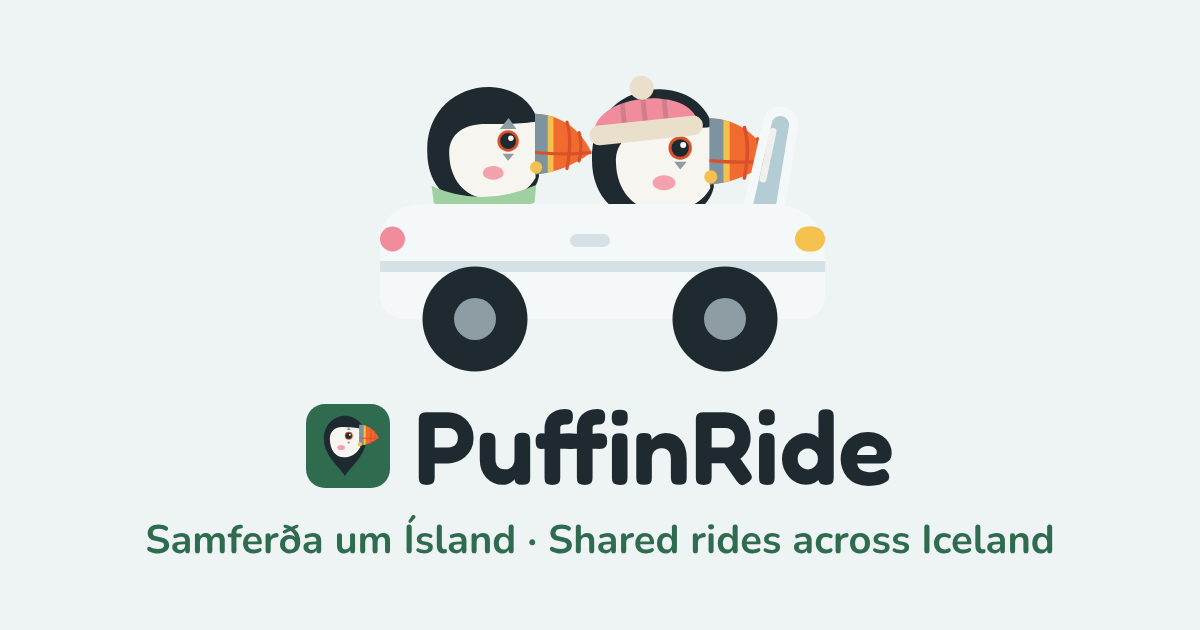
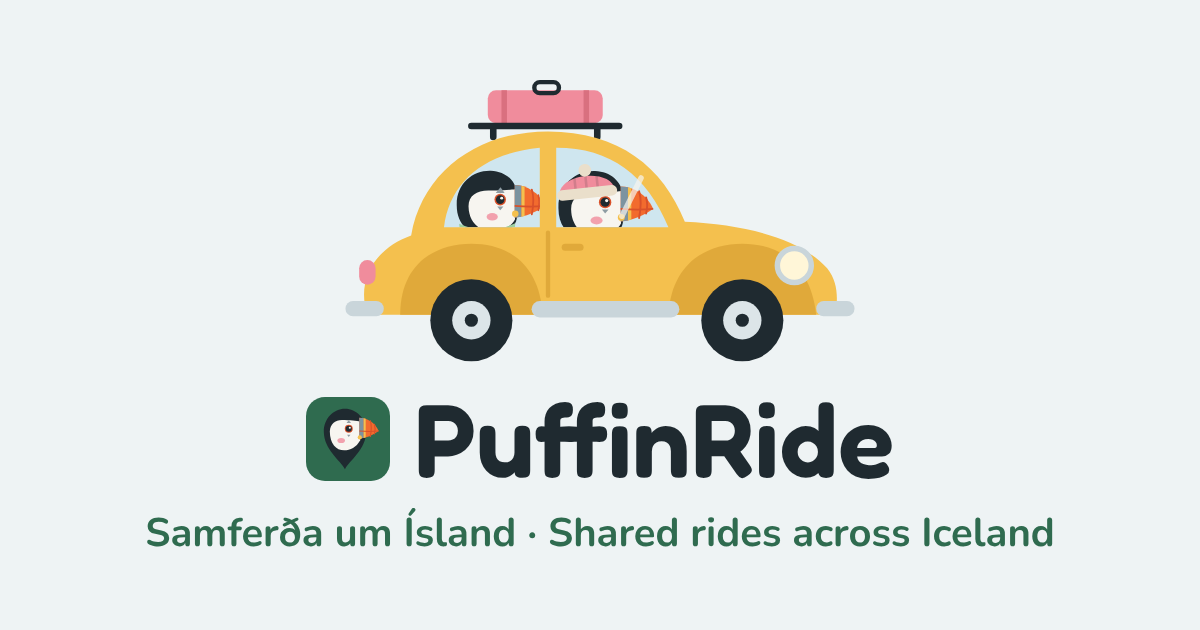
feat(web): the link preview shows the puffins' round yellow car
The share picture follows the front page's new car (#226), copied from
PuffinsInCar in light mode, and the changelog names the link preview.

Claude-Session: https://claude.ai/code/session_01Gz5pkxc2GzkBkGvjr1JUuX

diff --git a/apps/mobile/scripts/export-icons.ts b/apps/mobile/scripts/export-icons.ts
@@ -34,7 +34,7 @@ async function sharePicture(): Promise<string> {
 @font-face{font-family:Body;src:${body}}
 html,body{margin:0}
 .card{width:1200px;height:630px;box-sizing:border-box;display:flex;flex-direction:column;align-items:center;justify-content:center;background:#EEF3F4}
-.scene svg{display:block;width:480px;height:310px}
+.scene svg{display:block;width:520px;height:296px}
 .name{display:flex;align-items:center;gap:24px;margin:20px 0 16px}
 .icon{flex:none;width:84px;height:84px;border-radius:19px;overflow:hidden}
 .icon svg{display:block;width:84px;height:84px}

diff --git a/CHANGELOG.md b/CHANGELOG.md
@@ -1433,6 +1433,10 @@ releases follow [Semantic Versioning](https://semver.org/).
   Terms, rules and privacy, turns it off, which removes Google's cookies.
   Privacy Policy version 3, in both languages, describes it; it is not
   material, so nobody accepts it again. The phone apps count nothing.
+- Link previews (spec 23, 3.6): `public/share.png` is the two puffins in
+  their round yellow car over the logo and the name in both languages, and
+  Facebook and Messenger get the preview in Icelandic when they ask for it
+  (`X-Facebook-Locale` or `fb_locale`).
 
 ### Fixed
 
